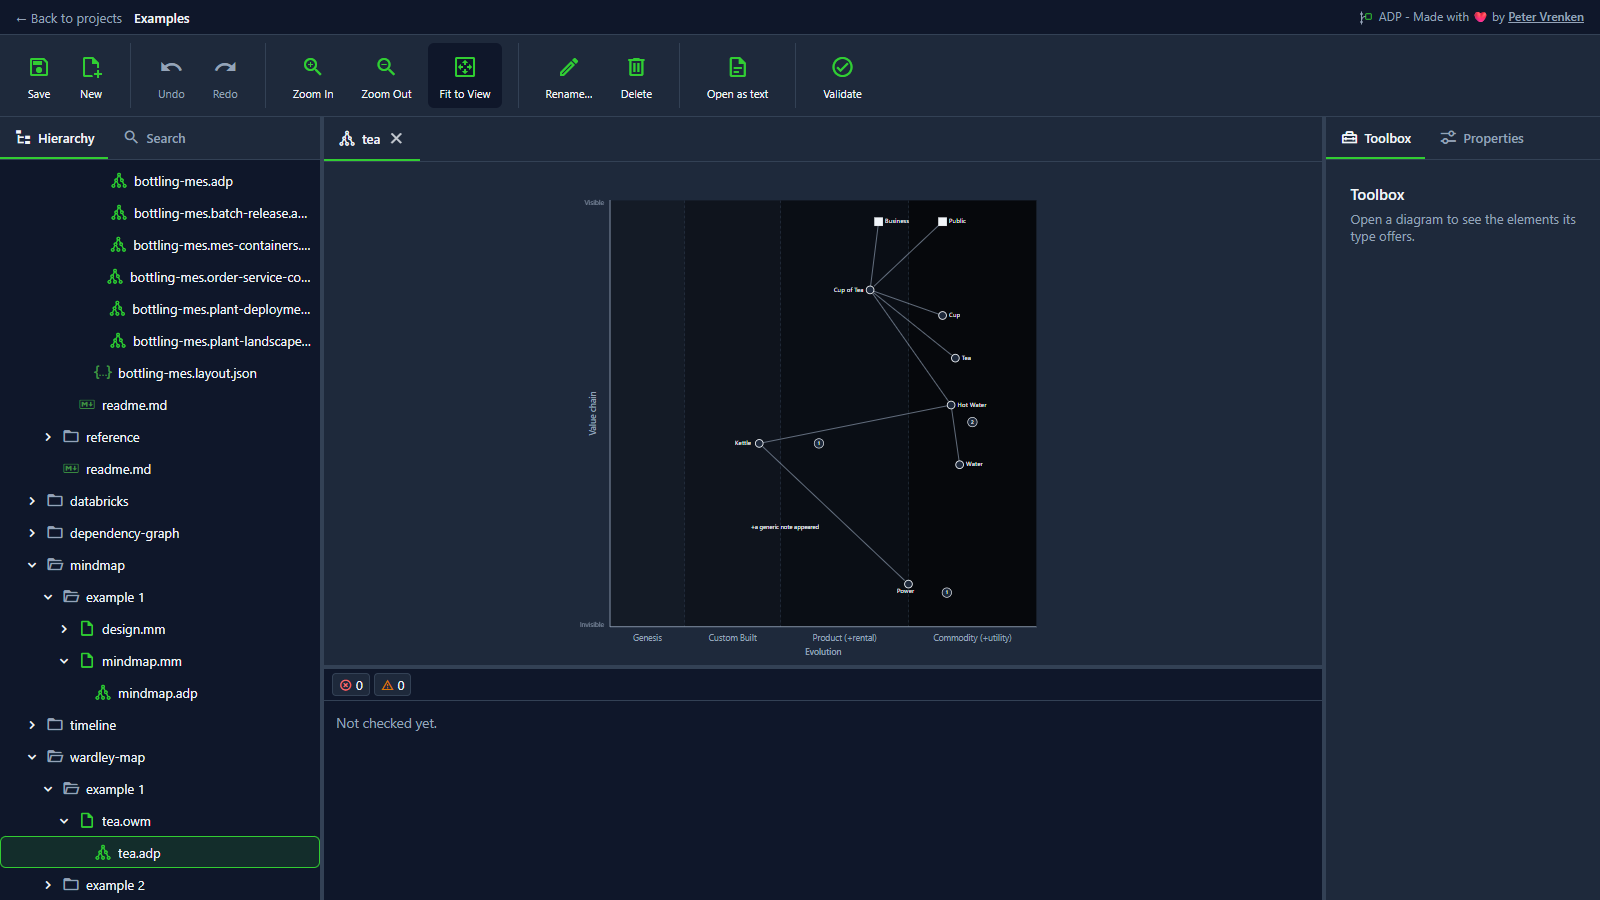
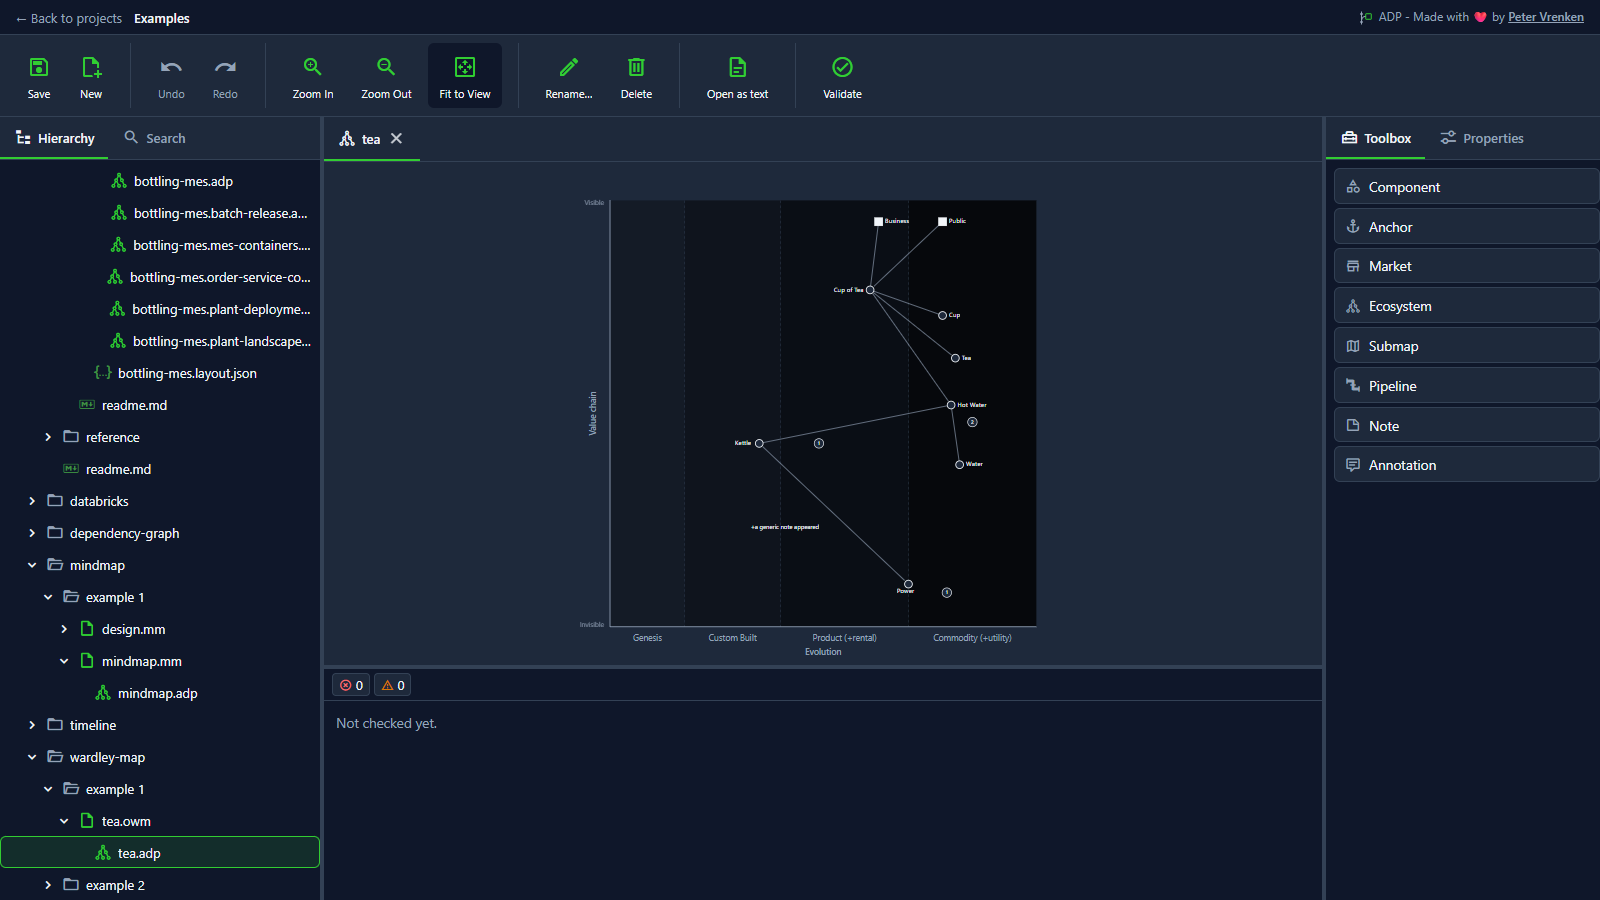
Fixed the empty Toolbox for open wardley-map, azure-pipeline and ansible-structure diagrams: their canvases never registered the backend-described palette, so the panel kept its placeholder. Guarded by canvas tests and a subfolder-with-a-space DescribeToolbox test; retook the two readme screenshots 

Changed region(s): [[0.8438, 0.1867, 1.0, 0.4356], [0.8438, 0.4667, 0.9062, 0.5289]]

diff --git a/src/diagrams/ansible-structure/client/AnsibleCanvas.test.tsx b/src/diagrams/ansible-structure/client/AnsibleCanvas.test.tsx
@@ -8,6 +8,7 @@ import {
   AnsibleElementPayloadSchema,
 } from "@client/generated/ansible-structure_pb";
 import { applyDelta, emptyModel, type AnsibleModel } from "./ansibleModel";
+import { DiagramToolboxProvider, useDiagramToolbox } from "@client/shell/panels/DiagramToolboxContext";
 
 const select = vi.fn();
 const revealPath = vi.fn();
@@ -35,6 +36,20 @@ vi.mock("@client/shell/context/ContextConnectionProvider", async (importOriginal
 });
 
 // Imported after the mocks so the component picks them up.
+let toolboxRequests: (readonly string[])[] = [];
+
+// The backend answers an empty palette for this type: it registers no toolbox provider,
+// deliberately - the module is read-only. One stable instance, as the real hook returns:
+// a fresh array per render would re-register on every one (see useRegisterDiagramToolbox).
+const emptyPalette: never[] = [];
+
+vi.mock("@client/shell/panels/useToolboxItems", () => ({
+  useToolboxItems: (_projectId: Uint8Array, path: readonly string[]) => {
+    toolboxRequests.push(path);
+    return emptyPalette;
+  },
+}));
+
 const { AnsibleCanvas } = await import("./AnsibleCanvas");
 
 function element(
@@ -348,5 +363,35 @@ describe("AnsibleCanvas", () => {
     // says where this type looks.
     expect(container.textContent).toContain("playbooks/");
     expect(container.textContent).toContain("roles/");
+  });
+});
+
+/** Reads what the shell's Toolbox panel reads: null is what renders the "Open a diagram" placeholder. */
+function ToolboxProbe() {
+  const items = useDiagramToolbox();
+  return <div data-testid="toolbox-probe">{items === null ? "placeholder" : "palette:" + items.map((item) => item.label).join(",")}</div>;
+}
+
+describe("AnsibleCanvas toolbox", () => {
+  it("registers its empty palette, so the panel says this type offers nothing rather than that no diagram is open", () => {
+    // Arrange. The module registers no toolbox provider by design - but the *panel* can only
+    // say so ("This diagram type offers no toolbox elements") if the mounted canvas registers
+    // the empty answer. Unregistered, an open structure diagram wears the misleading
+    // "Open a diagram" placeholder - the same defect the wardley and pipeline canvases had.
+    currentModel = emptyModel;
+    toolboxRequests = [];
+    const path = ["diagrams", "ansible-structure", "example 1", "structure.adp"];
+
+    // Act.
+    const { getByTestId } = render(
+      <DiagramToolboxProvider>
+        <AnsibleCanvas projectId={new Uint8Array(16)} entryId={new Uint8Array(16)} path={path} />
+        <ToolboxProbe />
+      </DiagramToolboxProvider>,
+    );
+
+    // Assert: registered-and-empty, not unregistered.
+    expect(getByTestId("toolbox-probe").textContent).toBe("palette:");
+    expect(toolboxRequests[0]).toEqual(path);
   });
 });

diff --git a/src/diagrams/wardley-map/client/WardleyCanvas.test.tsx b/src/diagrams/wardley-map/client/WardleyCanvas.test.tsx
@@ -14,6 +14,8 @@ import {
   WardleyLinkPayloadSchema,
 } from "@client/generated/wardley-map_pb";
 import { applyDelta, emptyModel, type WardleyModel } from "./wardleyModel";
+import { ToolboxItemSchema, type ToolboxItem } from "@client/generated/diagrams_pb";
+import { DiagramToolboxProvider, useDiagramToolbox } from "@client/shell/panels/DiagramToolboxContext";
 
 let currentModel: WardleyModel = emptyModel;
 let currentLoading = false;
@@ -35,6 +37,16 @@ vi.mock("./useWardleyStream", () => ({
 
 vi.mock("@client/shell/panels/DiagramViewContext", () => ({
   useRegisterDiagramView: () => undefined,
+}));
+
+let currentToolboxItems: ToolboxItem[] = [];
+let toolboxRequests: (readonly string[])[] = [];
+
+vi.mock("@client/shell/panels/useToolboxItems", () => ({
+  useToolboxItems: (_projectId: Uint8Array, path: readonly string[]) => {
+    toolboxRequests.push(path);
+    return currentToolboxItems;
+  },
 }));
 
 const { WardleyCanvas } = await import("./WardleyCanvas");
@@ -507,5 +519,38 @@ describe("WardleyCanvas dragging", () => {
 
     // Assert.
     expect(surface.getAttribute("viewBox")).toBe(before);
+  });
+});
+
+/** Reads what the shell's Toolbox panel reads: null is what renders the "Open a diagram" placeholder. */
+function ToolboxProbe() {
+  const items = useDiagramToolbox();
+  return <div data-testid="toolbox-probe">{items === null ? "placeholder" : "palette:" + items.map((item) => item.label).join(",")}</div>;
+}
+
+describe("WardleyCanvas toolbox", () => {
+  it("registers the backend-described palette with the shell while mounted", () => {
+    // Arrange. The Toolbox panel shows its placeholder until a mounted canvas registers -
+    // which an open wardley map must therefore do (tests.md, documentation task 9: this
+    // palette stayed on the placeholder while c4 and mindmap filled theirs on the same flow).
+    currentModel = withAxis();
+    currentToolboxItems = [
+      create(ToolboxItemSchema, { id: "wardley.toolbox.component", label: "Component", dropActionId: "wardley.add-component" }),
+      create(ToolboxItemSchema, { id: "wardley.toolbox.anchor", label: "Anchor", dropActionId: "wardley.add-anchor" }),
+    ];
+    toolboxRequests = [];
+    const path = ["diagrams", "wardley-map", "example 1", "tea.adp"];
+
+    // Act.
+    const { getByTestId } = render(
+      <DiagramToolboxProvider>
+        <WardleyCanvas projectId={new Uint8Array([1])} entryId={new Uint8Array([2])} path={path} />
+        <ToolboxProbe />
+      </DiagramToolboxProvider>,
+    );
+
+    // Assert: the shell sees this canvas's palette, asked for this diagram's own path.
+    expect(getByTestId("toolbox-probe").textContent).toBe("palette:Component,Anchor");
+    expect(toolboxRequests[0]).toEqual(path);
   });
 });

diff --git a/src/diagrams/azure-pipeline/client/PipelineCanvas.test.tsx b/src/diagrams/azure-pipeline/client/PipelineCanvas.test.tsx
@@ -16,6 +16,8 @@ import {
   TEMPLATE_TYPE,
   type PipelineModel,
 } from "./pipelineModel";
+import { ToolboxItemSchema, type ToolboxItem } from "@client/generated/diagrams_pb";
+import { DiagramToolboxProvider, useDiagramToolbox } from "@client/shell/panels/DiagramToolboxContext";
 
 const select = vi.fn();
 let currentModel: PipelineModel = emptyModel;
@@ -42,6 +44,16 @@ vi.mock("@client/shell/context/ContextConnectionProvider", async (importOriginal
     useContextProblems: () => currentProblems,
   };
 });
+
+let currentToolboxItems: ToolboxItem[] = [];
+let toolboxRequests: (readonly string[])[] = [];
+
+vi.mock("@client/shell/panels/useToolboxItems", () => ({
+  useToolboxItems: (_projectId: Uint8Array, path: readonly string[]) => {
+    toolboxRequests.push(path);
+    return currentToolboxItems;
+  },
+}));
 
 const { PipelineCanvas } = await import("./PipelineCanvas");
 
@@ -439,5 +451,38 @@ describe("PipelineCanvas", () => {
 
     // Assert.
     expect(view.getByRole("alert").textContent).toContain("no longer available");
+  });
+});
+
+/** Reads what the shell's Toolbox panel reads: null is what renders the "Open a diagram" placeholder. */
+function ToolboxProbe() {
+  const items = useDiagramToolbox();
+  return <div data-testid="toolbox-probe">{items === null ? "placeholder" : "palette:" + items.map((item) => item.label).join(",")}</div>;
+}
+
+describe("PipelineCanvas toolbox", () => {
+  it("registers the backend-described palette with the shell while mounted", () => {
+    // Arrange. The Toolbox panel shows its placeholder until a mounted canvas registers -
+    // which an open pipeline must therefore do (tests.md, documentation task 9: this palette
+    // stayed on the placeholder while c4 and mindmap filled theirs on the same flow).
+    currentModel = emptyModel;
+    currentToolboxItems = [
+      create(ToolboxItemSchema, { id: "azure-pipeline.toolbox.stage", label: "Stage", dropActionId: "azure-pipeline.add-stage" }),
+      create(ToolboxItemSchema, { id: "azure-pipeline.toolbox.job", label: "Job", dropActionId: "azure-pipeline.add-job" }),
+    ];
+    toolboxRequests = [];
+    const path = ["diagrams", "azure-pipeline", "example 1", "multi-stage.adp"];
+
+    // Act.
+    const { getByTestId } = render(
+      <DiagramToolboxProvider>
+        <PipelineCanvas projectId={new Uint8Array(16)} entryId={new Uint8Array(16)} path={path} />
+        <ToolboxProbe />
+      </DiagramToolboxProvider>,
+    );
+
+    // Assert: the shell sees this canvas's palette, asked for this diagram's own path.
+    expect(getByTestId("toolbox-probe").textContent).toBe("palette:Stage,Job");
+    expect(toolboxRequests[0]).toEqual(path);
   });
 });

diff --git a/src/diagrams/ansible-structure/client/AnsibleCanvas.tsx b/src/diagrams/ansible-structure/client/AnsibleCanvas.tsx
@@ -3,6 +3,8 @@ import { forwardBezierPath, straightPath } from "@client/canvas/connectors";
 import { BoxElement } from "@client/canvas/elements/box/BoxElement";
 import { elementSelectionOf, selectedElementIdOf } from "@client/canvas/selection";
 import { useContextConnection, useContextSelection } from "@client/shell/context/ContextConnectionProvider";
+import { useRegisterDiagramToolbox } from "@client/shell/panels/DiagramToolboxContext";
+import { useToolboxItems } from "@client/shell/panels/useToolboxItems";
 import { ContextSelectionAction } from "@client/generated/context_pb";
 import { AnsibleEdgeKind, AnsibleElementKind } from "@client/generated/ansible-structure_pb";
 import { anchorsOf, edgesOf, nodesOf, paletteSlotOf, type AnsibleElement, type AnsibleModel } from "./ansibleModel";
@@ -41,6 +43,11 @@ export interface AnsibleCanvasProps {
  */
 export function AnsibleCanvas({ projectId, entryId, path }: AnsibleCanvasProps) {
   const { model, loading, failed, reportView } = useAnsibleStream(projectId, path);
+
+  // This type's palette is empty by design - the module registers no toolbox provider,
+  // because it edits nothing. Registering the backend's empty answer makes the panel say
+  // exactly that, instead of claiming no diagram is open.
+  useRegisterDiagramToolbox(useToolboxItems(projectId, path));
   const { select, revealPath } = useContextConnection();
   const { selection } = useContextSelection();
 

diff --git a/src/diagrams/azure-pipeline/client/PipelineCanvas.tsx b/src/diagrams/azure-pipeline/client/PipelineCanvas.tsx
@@ -4,6 +4,8 @@ import { BoxElement } from "@client/canvas/elements/box/BoxElement";
 import { elementSelectionOf } from "@client/canvas/selection";
 import { useContextConnection, useContextProblems } from "@client/shell/context/ContextConnectionProvider";
 import { useRegisterDiagramView, type DiagramViewControls } from "@client/shell/panels/DiagramViewContext";
+import { useRegisterDiagramToolbox } from "@client/shell/panels/DiagramToolboxContext";
+import { useToolboxItems } from "@client/shell/panels/useToolboxItems";
 import { PipelineElementKindProto } from "@client/generated/azure-pipeline_pb";
 import { indicatorsOf, problemMarkOf, problemsOn, type PipelineIndicator } from "./pipelineIndicators";
 import {
@@ -53,6 +55,10 @@ export interface PipelineCanvasProps {
  */
 export function PipelineCanvas({ projectId, entryId, path }: PipelineCanvasProps) {
   const { model, loading, failed, reportView } = usePipelineStream(projectId, path);
+
+  // The palette the Toolbox panel shows while this pipeline is open - described by the
+  // backend (Requirement 9.6), registered here and withdrawn on unmount.
+  useRegisterDiagramToolbox(useToolboxItems(projectId, path));
   const { select } = useContextConnection();
   // Problems arrive for the whole project, so an element only wears the ones that name it and
   // this file - two pipelines may each have a stage called Build (Requirement 8.7).

diff --git a/src/diagrams/wardley-map/client/WardleyCanvas.tsx b/src/diagrams/wardley-map/client/WardleyCanvas.tsx
@@ -3,6 +3,8 @@ import { straightPath, type ConnectorBox } from "@client/canvas/connectors";
 import { StraightConnection } from "@client/canvas/connections/straight/StraightConnection";
 import { SymbolElement } from "@client/canvas/elements/symbol/SymbolElement";
 import { useRegisterDiagramView } from "@client/shell/panels/DiagramViewContext";
+import { useRegisterDiagramToolbox } from "@client/shell/panels/DiagramToolboxContext";
+import { useToolboxItems } from "@client/shell/panels/useToolboxItems";
 import {
   WardleyAttitudeKind,
   WardleyDecorator,
@@ -69,6 +71,10 @@ function scale(value: number): number {
 // nothing here does.
 export function WardleyCanvas({ projectId, path }: WardleyCanvasProps) {
   const { model, loading, failed, moveElementTo } = useWardleyStream(projectId, path);
+
+  // The palette the Toolbox panel shows while this map is open - described by the backend
+  // (Requirement 13), registered here and withdrawn on unmount.
+  useRegisterDiagramToolbox(useToolboxItems(projectId, path));
   const [view, setView] = useState<ViewBox>(fullView);
   const surfaceRef = useRef<SVGSVGElement | null>(null);
   const panRef = useRef<{ clientX: number; clientY: number; view: ViewBox } | null>(null);

diff --git a/src/backend/EtAlii.Adp.Backend.Tests/Integration Tests/DiagramToolboxFlow.Tests.cs b/src/backend/EtAlii.Adp.Backend.Tests/Integration Tests/DiagramToolboxFlow.Tests.cs
@@ -38,6 +38,14 @@ public class DiagramToolboxFlowTests : IClassFixture<WebApplicationFactory<Progr
             IoPath.Combine(_projectFolder, "roadmap.mm"),
             "<map version=\"freeplane 1.11.5\">\n<node TEXT=\"roadmap\" ID=\"ID_1\"/>\n</map>\n");
         File.WriteAllText(IoPath.Combine(_projectFolder, "notes.txt"), "not a diagram\n");
+        // The shape the combined examples project actually uses: a registration in a subfolder
+        // whose name contains a space. Documentation task 9's manual pass found the Toolbox
+        // panel empty for exactly this shape and named the space as a candidate cause; the test
+        // below rules that out at this seam (the defect was the canvas never registering).
+        var subfolder = IoPath.Combine(_projectFolder, "example 1");
+        Directory.CreateDirectory(subfolder);
+        File.WriteAllText(IoPath.Combine(subfolder, "tea.adp"), "wardley/map\n");
+        File.WriteAllText(IoPath.Combine(subfolder, "tea.owm"), "anchor Need [0.9, 0.5]\ncomponent Thing [0.4, 0.4]\n");
 
         _factory = baseFactory.WithWebHostBuilder(builder =>
         {
@@ -106,6 +114,31 @@ public class DiagramToolboxFlowTests : IClassFixture<WebApplicationFactory<Progr
         // Assert.
         Assert.Empty(unroutable.Items);
         Assert.Empty(missing.Items);
+    }
+
+    [Fact]
+    public async Task AWardleyMapInASubfolderWithASpace_AnswersWithTheModulesPalette()
+    {
+        // Arrange.
+        using var channel = CreateChannel();
+        var diagramClient = new DiagramService.DiagramServiceClient(channel);
+        var headers = await LoginAsync(channel);
+        var projectId = await AddProjectAsync(channel, headers);
+
+        var path = new Path();
+        path.Segments.Add("example 1");
+        path.Segments.Add("tea.adp");
+
+        // Act.
+        var response = await diagramClient.DescribeToolboxAsync(
+            new DescribeToolboxRequest { ProjectId = projectId, Path = path },
+            headers, cancellationToken: TestContext.Current.CancellationToken);
+
+        // Assert: the module's whole palette, unimpressed by where the document lives.
+        Assert.Equal(
+            ["Component", "Anchor", "Market", "Ecosystem", "Submap", "Pipeline", "Note", "Annotation"],
+            response.Items.Select(item => item.Label));
+        Assert.DoesNotContain(response.Items, item => item.DropActionId.Length == 0);
     }
 
     private static Path PathOf(string fileName)

diff --git a/src/diagrams/wardley-map/backend/EtAlii.Adp.Diagram.WardleyMap/WardleyToolboxProvider.cs b/src/diagrams/wardley-map/backend/EtAlii.Adp.Diagram.WardleyMap/WardleyToolboxProvider.cs
@@ -24,10 +24,11 @@ namespace EtAlii.Adp.Diagram.WardleyMap;
 /// component to put in it.
 /// </para>
 /// <para>
-/// The panel that renders this does not exist yet. That is why Requirement 13.7 asks for a
-/// provider whose <see cref="Items"/> are static and assertable without a UI - and why the two
-/// criteria that need a UI to exist (13.4's drop position, 13.5's unavailable entries) are
-/// reported as gaps rather than implemented against a contract that has no field for either.
+/// The Toolbox panel renders this now, and the canvas registers it while a map is open. The
+/// provider stays as Requirement 13.7 asked - <see cref="Items"/> static and assertable
+/// without a UI - and the two criteria that need contract fields that do not exist (13.4's
+/// drop position, 13.5's unavailable entries) remain reported as gaps rather than implemented
+/// against a contract that has no field for either.
 /// </para>
 /// </remarks>
 public sealed class WardleyToolboxProvider : IDiagramToolboxProvider

diff --git a/tests.md b/tests.md
@@ -670,3 +670,13 @@ space, which is one candidate to rule out.
   module's entries - not the "Open a diagram" placeholder. Once this passes, retake
   `docs/screenshots/wardley-map.png` and `docs/screenshots/azure-pipeline.png` per
   `docs/screenshots/readme.md`.
+- **Result 2026-09-03**: pass - the cause was client-side: neither WardleyCanvas nor
+  PipelineCanvas called useRegisterDiagramToolbox(useToolboxItems(...)), so the panel was
+  never told a diagram was open and DescribeToolbox was never asked. The folder-name space
+  was ruled out: mindmap shares it and worked, and a new backend integration test serves the
+  full wardley palette from "example 1/tea.adp" (DiagramToolboxFlow). Both canvases wired
+  (AnsibleCanvas too, so its read-only type reports "offers no toolbox elements" instead of
+  the placeholder), each guarded by a canvas test that fails while unregistered. Verified
+  live: tea.adp lists all eight entries, multi-stage.adp lists Stage / Job / Deployment job /
+  Script step. Both screenshots retaken; capture.mjs now raises dblclick in the page, since
+  a fresh puppeteer-core install opened nothing through CDP click({ clickCount: 2 }).

diff --git a/docs/screenshots/readme.md b/docs/screenshots/readme.md
@@ -26,7 +26,3 @@ The whole procedure is executable: [`capture.mjs`](capture.mjs) drives all of th
 | `markdown-editor.png` | `editors/markdown/` → `guide.md` | The three-part editor: heading outline above, CodeMirror text left, rendered preview right — and the status line reading **Saved**, since nothing was edited. |
 
 Each diagram capture clicks **Fit to View** after opening (where the toolbar offers it), so the content's framing does not depend on the previous session's pan and zoom. Two captures that follow one row of this table should differ only in rendering noise.
-
-## Known blemish, deliberately shown
-
-At capture time the Toolbox panel stays on "Open a diagram to see the elements its type offers" for the wardley-map and azure-pipeline tabs, while every other type's toolbox fills — deterministic across runs, and recorded as a manual check in [`tests.md`](../../tests.md). The screenshots show the app as it is; when that check is fixed, retake those two images.
